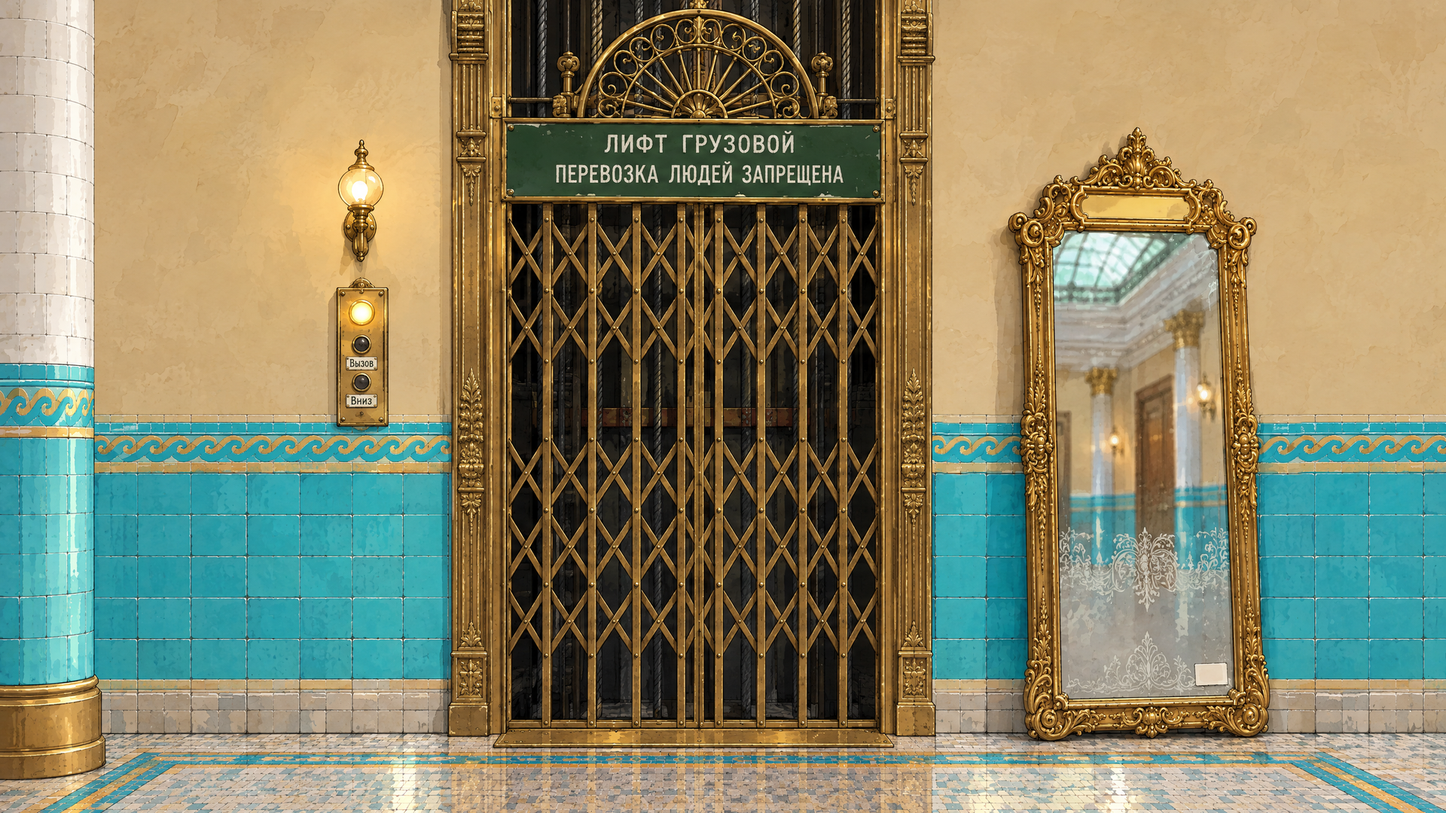
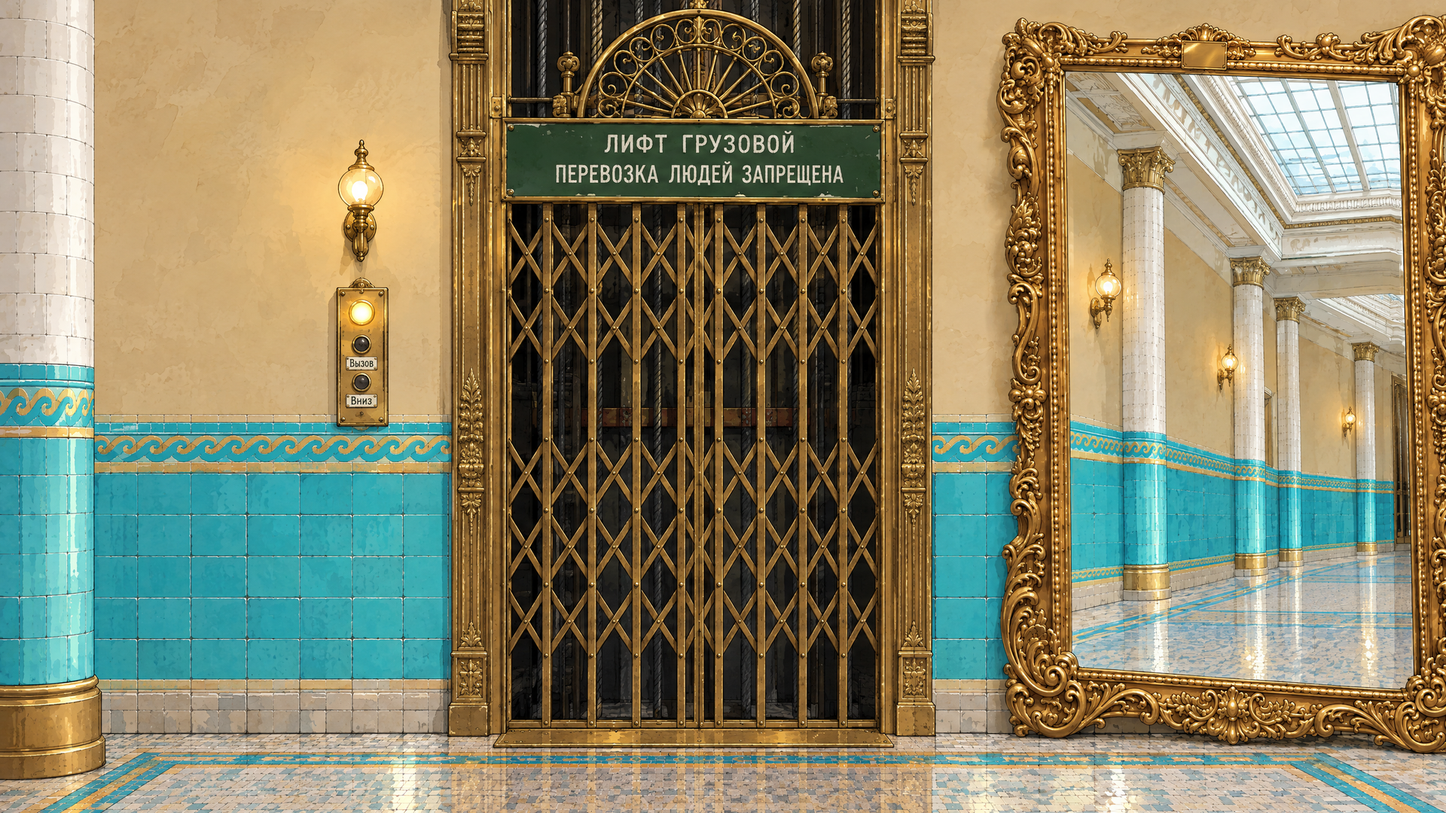
Z11: зеркало у стены в размер висящего (кандидат), табличка чистая; сборщик архива картинок по местам pack_art.py
Claude-Session: https://claude.ai/code/session_01VqJuXijQYxzn3YNdctK2yK

Changed region(s): [[0.6562, 0.0, 1.0, 1.0], [0.8438, 0.9778, 0.875, 1.0]]

diff --git a/tools/assets/pack_art.py b/tools/assets/pack_art.py
@@ -1,0 +1,122 @@
+#!/usr/bin/env python3
+"""Архив всех картинок игры для просмотра автором — по местам, латинскими именами.
+
+  python tools/assets/pack_art.py ВЫХОД.zip [--candidates ПАПКА ...]
+
+Принятое — assets/gfx (экраны, зумы, слои состояний «в кадре», портреты, курсоры); кандидаты на приёмке —
+из папок work/higgsfield/candidates/* (основы зумов zoom_*.png и слои с cutouts.json), с приставкой NEW_.
+Состояние показывается целым кадром «база + слой»: принятое — кадр-вариант из work/higgsfield/variants,
+если он есть, иначе склейка; кандидат — склейка из work/higgsfield/cutout_preview. Картинки — JPEG 90
+в полном размере (портреты — на сером фоне), схемы docs/assets — PNG. Имена в архиве только латиницей
+(русские имена Windows показывает «кракозябрами»), README.txt — UTF-8 с BOM.
+"""
+import argparse
+import io
+import json
+import zipfile
+from pathlib import Path
+
+from PIL import Image
+
+ROOT = Path(__file__).resolve().parents[2]
+GFX = ROOT / "assets" / "gfx"
+VAR = ROOT / "work" / "higgsfield" / "variants"
+PREV = ROOT / "work" / "higgsfield" / "cutout_preview"
+TOP = "Hydroudar_art"
+
+PLACE = {"room_w1": "W1_room317", "zoom_z01": "W1_room317", "zoom_z02": "W1_room317", "zoom_z03": "W1_room317",
+         "room_w2": "W2_lobby", "zoom_z04": "W2_lobby", "zoom_z05": "W2_lobby",
+         "room_w2_under": "W2u_lobby_under_trolley",
+         "room_w3": "W3_laundry", "zoom_z06": "W3_laundry", "zoom_z07": "W3_laundry", "zoom_z08": "W3_laundry",
+         "room_w4": "W4_hall", "zoom_z09": "W4_hall", "zoom_z10": "W4_hall", "zoom_z11": "W4_hall",
+         "zoom_z12": "W4_hall_stairs_bottom",
+         "room_w5": "W5_reception_cave", "room_w5_under": "W5_reception_cave",
+         "room_w6": "W6_office", "zoom_z13": "W6_office"}
+SCHEMES = {"hotel_topology.png": "hotel_topology.png", "ground_floor_plan.png": "ground_floor_plan.png",
+           "w2_counter_layout.png": "W2_counter_layout.png", "w3_plan.png": "W3_laundry_plan.png",
+           "w4_plan.png": "W4_hall_plan.png"}
+
+README = """«Латунный янычар: Гидроудар» — все картинки игры (копия для просмотра)
+
+Папки — по местам игры: экран (room_*), его зумы (zoom_*) и все их состояния целым кадром,
+как их видит игрок (<экран или зум>__<состояние>).
+NEW_ в начале имени — кандидат на приёмке, ещё не в игре; без приставки — принято в игру.
+Если у NEW_ и у принятой картинки одно имя — NEW_ её заменит после «да» автора (например, NEW_zoom_z11__st_z11_mirror_aside).
+
+W1_room317 — номер 317 (Z01 душевая, Z02 стол и мини-бар, Z03 тележка)
+W2_lobby — вестибюль (Z04 стойка Изольды, Z05 витрина из-под тележки)
+W2u_lobby_under_trolley — вестибюль из-под юбки тележки
+W3_laundry — прачечная (Z06 барабаны, Z07 декоративная стена, Z08 шкаф)
+W4_hall — зал прекраснодушия (Z09 доска почёта, Z10 стол и люк, Z11 лифт)
+W4_hall_stairs_bottom — Z12, низ служебной лестницы из зала, дверь конторы
+W5_reception_cave — приёмный пункт (и вид из-под юбки)
+W6_office — контора старшего по воде
+portraits — портреты (lap — Лапидус, iz — Изольда, kuh — Кухтулху, anc — Предок), на сером фоне
+cursors — курсоры из BJ2
+schemes — топология отеля, план первого этажа, схема стойки W2, планы W3 и W4
+
+Картинки — JPEG высокого качества в полном размере 1920×1080; схемы — PNG.
+Оригиналы PNG — в репозитории proshot82/Hydroshock: assets/gfx (принятое) и work/higgsfield/candidates (кандидаты).
+"""
+
+
+def jpg(im):
+    if "A" in im.getbands():
+        bg = Image.new("RGBA", im.size, (128, 128, 128, 255))
+        bg.alpha_composite(im.convert("RGBA"))
+        im = bg
+    buf = io.BytesIO()
+    im.convert("RGB").save(buf, "JPEG", quality=90)
+    return buf.getvalue()
+
+
+def compose(base_name, layer_png, x, y):
+    sub = "rooms" if base_name.startswith("room") else "zooms"
+    im = Image.open(GFX / sub / base_name).convert("RGBA")
+    im.alpha_composite(Image.open(layer_png).convert("RGBA"), (x, y))
+    return im
+
+
+def main(argv=None):
+    ap = argparse.ArgumentParser()
+    ap.add_argument("out")
+    ap.add_argument("--candidates", nargs="*", default=[])
+    a = ap.parse_args(argv)
+    files = {}
+    for p in sorted((GFX / "rooms").glob("*.png")) + sorted((GFX / "zooms").glob("*.png")):
+        files[f"{PLACE[p.stem]}/{p.stem}.jpg"] = jpg(Image.open(p))
+    cj = json.loads((GFX / "cutouts" / "cutouts.json").read_text(encoding="utf-8"))
+    for n, e in sorted(cj.items()):
+        stem = e["base"][:-4]
+        v = VAR / f"{stem}__{n}.png"
+        im = Image.open(v) if v.exists() else compose(e["base"], GFX / "cutouts" / f"{n}.png", e["x"], e["y"])
+        files[f"{PLACE[stem]}/{stem}__{n}.jpg"] = jpg(im)
+    for c in a.candidates:
+        c = Path(c)
+        for p in sorted(c.glob("zoom_*.png")):
+            files[f"{PLACE[p.stem]}/NEW_{p.stem}.jpg"] = jpg(Image.open(p))
+        cjp = c / "cutouts.json"
+        if cjp.exists():
+            for n, e in sorted(json.loads(cjp.read_text(encoding="utf-8")).items()):
+                stem = e["base"][:-4]
+                pv = PREV / f"{n}__in_scene.png"
+                pv = pv if pv.exists() else PREV / f"{n}.png"
+                files[f"{PLACE[stem]}/NEW_{stem}__{n}.jpg"] = jpg(Image.open(pv))
+    for p in sorted((GFX / "portraits").glob("*.png")):
+        files[f"portraits/{p.stem}.jpg"] = jpg(Image.open(p))
+    for p in sorted((GFX / "cursors").glob("*.png")):
+        files[f"cursors/{p.name}"] = p.read_bytes()
+    for k, v in SCHEMES.items():
+        files[f"schemes/{v}"] = (ROOT / "docs" / "assets" / k).read_bytes()
+    with zipfile.ZipFile(a.out, "w", zipfile.ZIP_STORED) as z:
+        z.writestr(f"{TOP}/README.txt", "" + README.replace("\n", "\r\n"))
+        for name, data in sorted(files.items()):
+            full = f"{TOP}/{name}"
+            assert full.isascii(), full
+            z.writestr(full, data)
+    print(len(files), "файлов,", Path(a.out).stat().st_size // 1048576, "МБ")
+    return 0
+
+
+if __name__ == "__main__":
+    raise SystemExit(main())

diff --git a/work/higgsfield/candidates/states_1011/README.md b/work/higgsfield/candidates/states_1011/README.md
@@ -10,6 +10,8 @@
 - **Замечание автора 11.10.2026, позже: «ты забыл, что за калиткой — арка».** Кадры с толпой генератор перерисовывал целиком и вместе с ногами менял фон: пропали арка и двери зала, у стойки стало другое число панелей, калитка оказалась посередине. Теперь ноги нарисованы на мадженте и наложены на принятую базу (`tools/assets/chroma_layer.py`), стойка, арка и двери — из базы; проход в толпе — напротив калитки (вторая панель справа, сразу правее арки), калитка нарисована по чистой базе и вырезана только она.
 - Открытая витрина (ред. 1 — «стекла нет») перерисована так же по вырезке: целая стеклянная дверца распахнута влево на петлях.
 
+**Замечание автора 11.10.2026: «`zoom_z11__st_z11_mirror_aside` — зеркало несоразмерно маленькое».** Принятый слой показывал другое зеркало — узкое, с другой рамой и втрое меньше висящего (`st_z11_mirror`). Новый кандидат `st_z11_mirror_aside`: то же зеркало, та же барочная рама и тот же размер, что у висящего (выше двери лифта); стоит на полу правее лифта, правой частью уходит за край кадра; пост и решётка открыты. Кадр ce5612ca (эталон — `variants/zoom_z11__st_z11_mirror.png`, media 4f67ecad), на табличке рамы генератор написал «№ 12» — табличка очищена на участке ×4 (4362a6fb), как у висящего (спека: табличка и наклейка в Z11 чистые). Вырезка: база `zoom_z11`, `--box 1280,0,1920,1080 --thresh 20 --open 3 --close 21 --align 6 --grow 8 --feather 3`. После «да» заменит принятый слой. W4 проверен: там отставленное зеркало стоит дальше вдоль стены, с поправкой на перспективу (~0,65) оно в размер висящего — не трогаю.
+
 | Состояние | Кадр-вариант (job) | Вырезка (база `room_w2`, если не сказано иное) |
 |---|---|---|
 | `st_w2_iz` | b1f3b74d | `--box 120,180,520,1080 --thresh 22 --open 3 --close 21 --align 6 --grow 8 --feather 3` |
@@ -26,7 +28,7 @@
 | `st_w2_vitrine_open` | 24e0a36b по вырезке W2 1285,300–1489,572 (6bfaf3e4), уменьшен до 204×272 и вклеен в 1285,300 | `--box 1290,310,1485,500 --thresh 16 --open 2 --close 15 --align 3 --grow 5 --feather 3` |
 | `st_w2u_crowd` | ноги — 1856448b (от 72053e69, всё, кроме ног, заменено маджентой) | `tools/assets/chroma_layer.py room_w2_under.png <на мадженте> st_w2u_crowd --scale 1.15 --floor-y 740` (ноги наложены на принятую базу; увеличение от верхнего края опускает ступни: дальние встают перед основанием стойки, а не за ней; мягкая тень на полу) |
 | `st_w2u_parted` | ноги — 4041eed3 (от 1856448b: проход на 64–80 % ширины, напротив калитки) | то же, `st_w2u_parted` |
-| `st_w2u_gate_open` | dd2e3b54 от чистой базы `room_w2_under` | `--box 1240,420,1510,770 --thresh 20 --open 3 --close 21 --align 6 --grow 6 --feather 3`; калитка — вторая панель справа, сразу правее арки (GEOMETRY), открыта внутрь; ложится под слой расступившихся (склейка `cutout_preview/st_w2u_gate_open__with_parted.png`) |
+| `st_w2u_gate_open` | dd2e3b54 от чистой базы `room_w2_under` | `--box 1240,420,1510,770 --thresh 20 --open 3 --close 21 --align 6 --grow 6 --feather 3`; калитка — вторая панель справа, сразу правее арки (GEOMETRY), открыта внутрь; ложится под слой расступившихся (склейка `cutout_preview/st_w2u_gate_open__in_scene.png`) |
 | `st_w3_cabinet_open` | 8e0b15b0 по вырезке W3 1340,285–1700,765 (50cd6650), уменьшен до 360×480 и вклеен в 1340,285 | база `room_w3`, `--box 1380,290,1640,760 --thresh 20 --open 3 --close 21 --align 4 --grow 6 --feather 3` |
 
 Отклонены до показа (ред. 2): Изольда 3 (b236b8af — руки на латунной кромке), микрофон 2–3 (27b59b5a, 6644d313 — Изольда по ту сторону стойки, у гостей), микрофон 4 (261c9df7 — годен, у 5 рука лежит на мраморе), толпа 5 (4160986d — плотнее, стойки не видно), расступились 3 (90fcdcbe), калитка 3 (6fd951f3 — открыта к камере), шкаф по всему кадру 2–3 (daa71160, 82cf17e3 — фасад сдвинулся целиком) и по вырезке 9:16 4–5 (bd49cd98, f84e5562 — шкаф стал широким), витрина по вырезке 4–5 (27b6a159, 4487e3b8).
